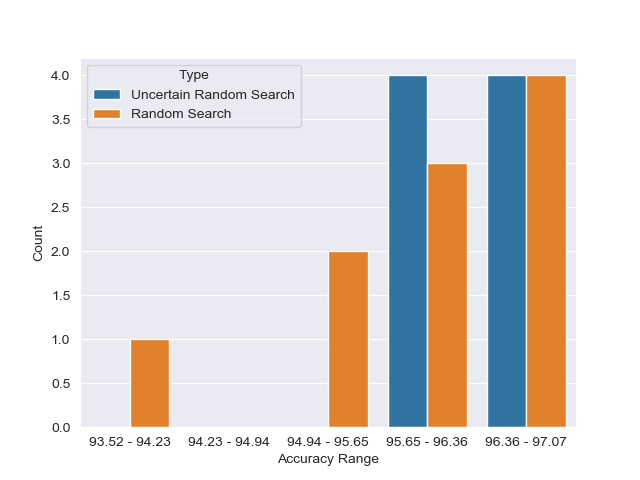
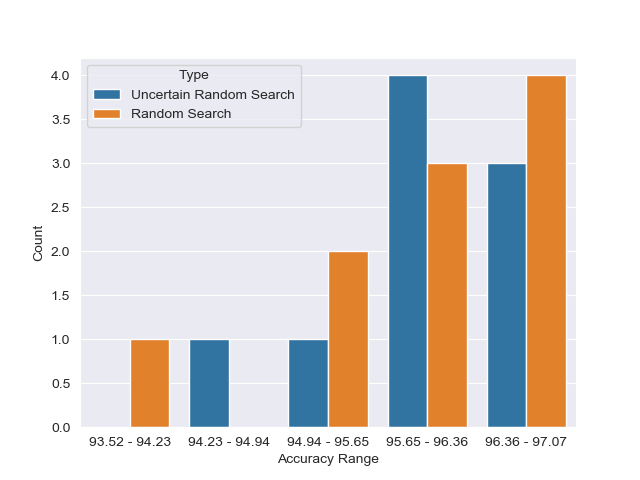
h

diff --git a/uncertainty_quantifier/evaluate_experiment.py b/uncertainty_quantifier/evaluate_experiment.py
@@ -12,7 +12,7 @@ def main():
     file_overall = open('temp/overall.csv', 'w', encoding='utf-8')
     file_overall.write('hidden unit size,accuracy\n')
 
-    no_of_exp=8
+    no_of_exp=10
 
     x_train, y_train, x_test, y_test, input_shape = input_data(30,100)
 
